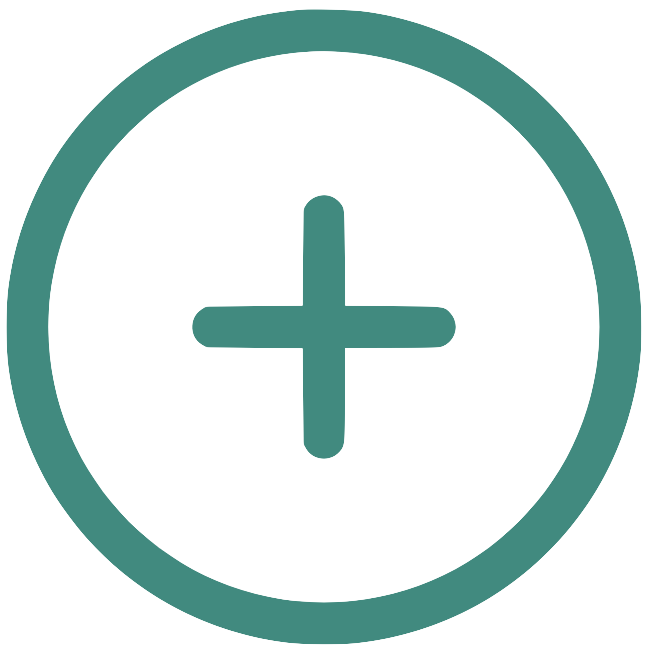
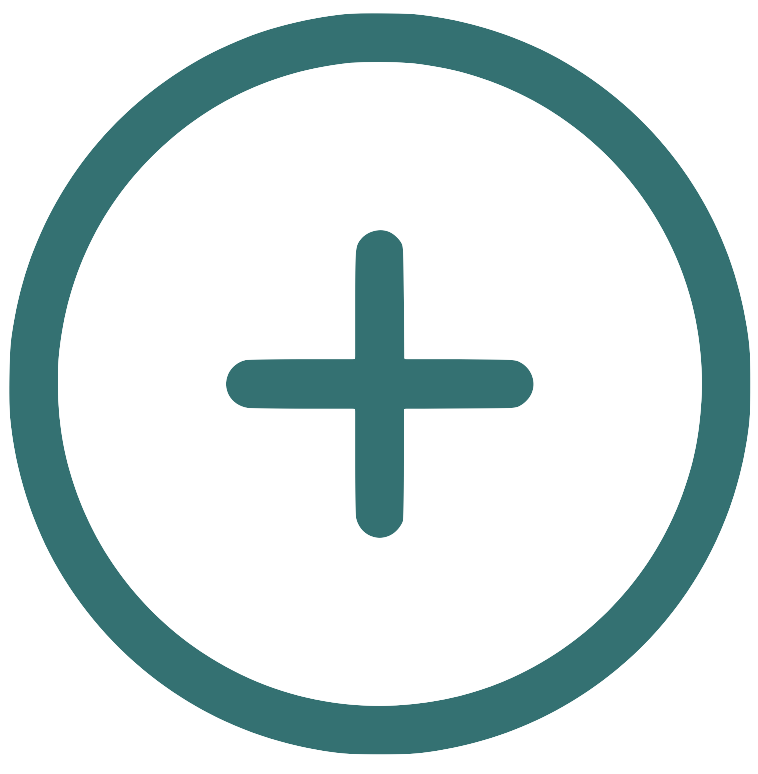
ajustement btn

Changed region(s): [[0.0, 0.0, 1.0, 1.0], [0.2752, 0.2752, 0.7034, 0.7034]]

diff --git a/app/assets/stylesheets/components/_add-btn.scss b/app/assets/stylesheets/components/_add-btn.scss
@@ -1,7 +1,7 @@
 #add-btn > img {
   position: fixed;
-  bottom : 10px;
-  left: 160px;
+  bottom : 60px;
+  left: 163px;
   right: -100px;
   opacity: 1;
   width: 65px;
